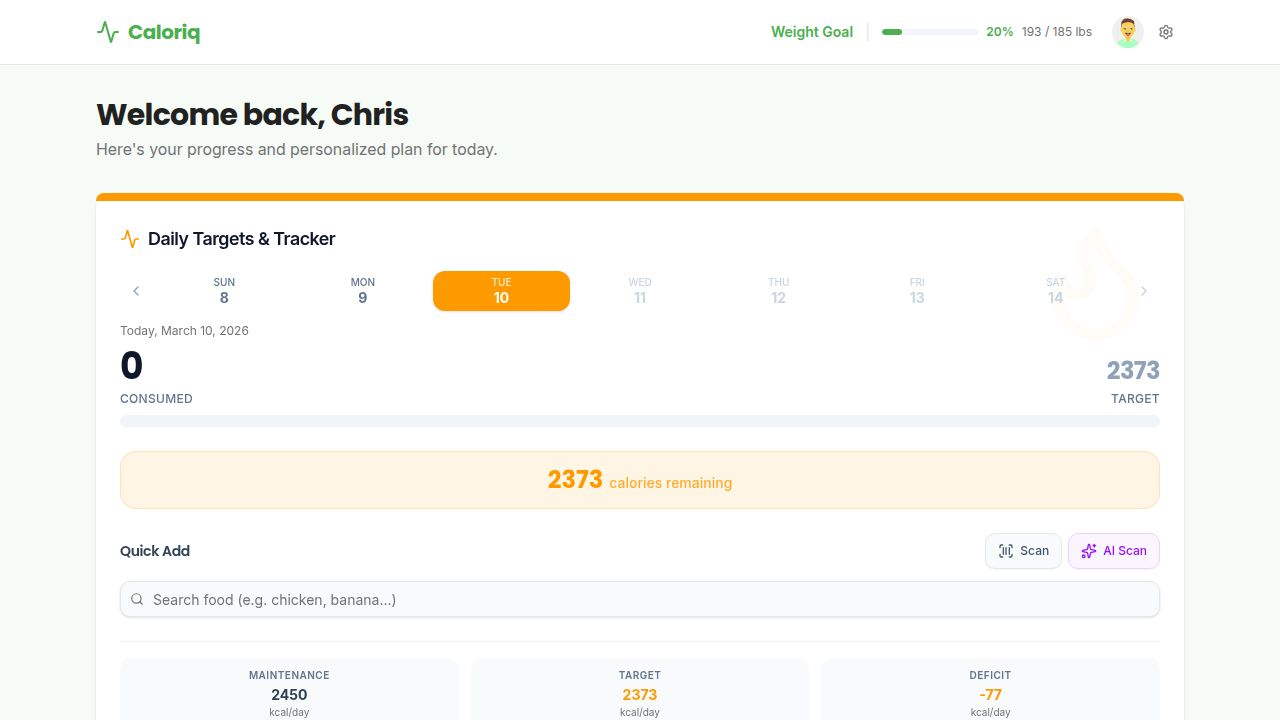
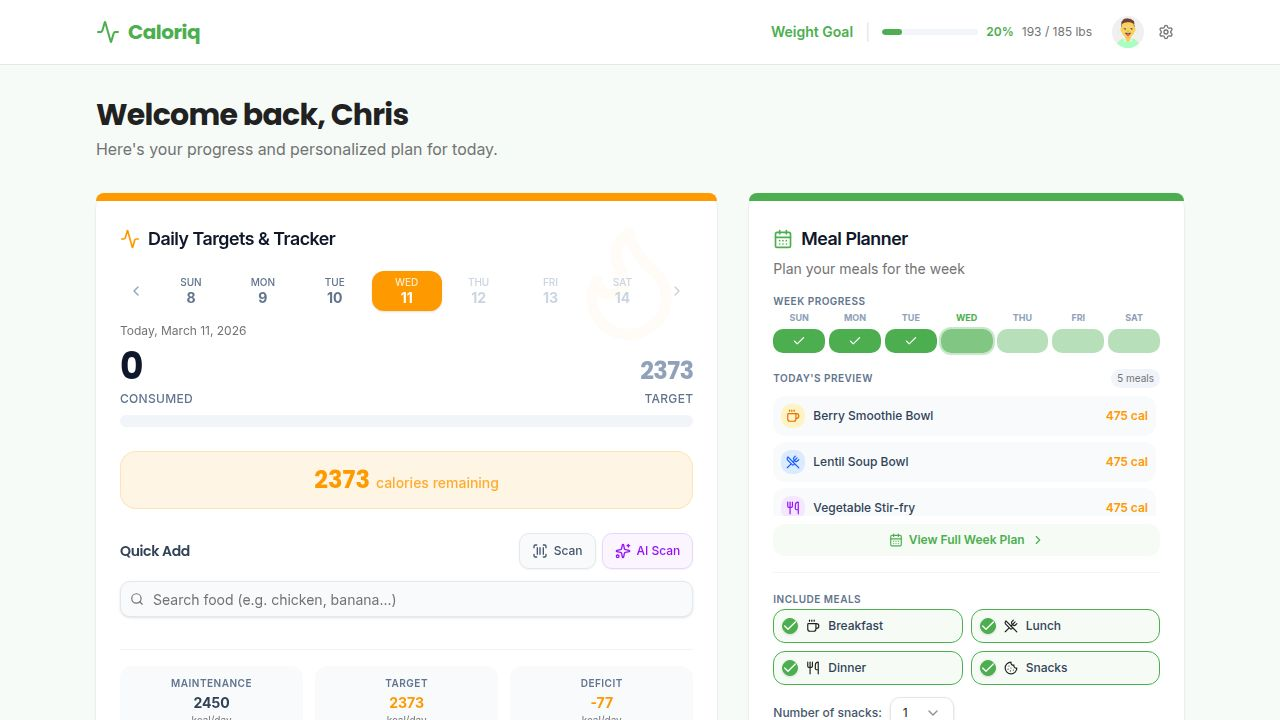
Add functionality to generate a grocery list from meal plans
Introduce a grocery list generation feature within the Meal Planner, aggregating ingredients from planned meals, allowing user selection, and enabling export functionality.

Replit-Commit-Author: Agent
Replit-Commit-Session-Id: d0c98cd4-3401-4b9a-9fcc-3167ef5b7d4c
Replit-Commit-Checkpoint-Type: full_checkpoint
Replit-Commit-Event-Id: e650ed43-8960-4a15-8b48-64aec25a0be4
Replit-Commit-Screenshot-Url: https://storage.googleapis.com/screenshot-production-us-central1/b5252e75-7d72-4a27-a063-837869a7ea78/d0c98cd4-3401-4b9a-9fcc-3167ef5b7d4c/vkuiCBN
Replit-Helium-Checkpoint-Created: true

diff --git a/client/src/pages/home.tsx b/client/src/pages/home.tsx
@@ -21,7 +21,10 @@ import {
   Check,
   Coffee,
   UtensilsCrossed,
-  Cookie
+  Cookie,
+  ShoppingCart,
+  Copy,
+  Share2
 } from "lucide-react";
 import { format, addDays, subDays, isToday, isSameDay, startOfWeek, endOfWeek } from "date-fns";
 import type { UserProfile, FoodEntry, SavedRecipe, PlannedMeal } from "@shared/schema";
@@ -145,6 +148,9 @@ export default function Home() {
   const [mpPreference, setMpPreference] = useState("balanced");
   const [mpIncludeMyRecipes, setMpIncludeMyRecipes] = useState(false);
   const [mpGenerating, setMpGenerating] = useState(false);
+  const [groceryListOpen, setGroceryListOpen] = useState(false);
+  const [groceryChecked, setGroceryChecked] = useState<Record<string, boolean>>({});
+  const [groceryCopied, setGroceryCopied] = useState(false);
 
   const currentWeekStart = startOfWeek(new Date(), { weekStartsOn: 0 });
   const currentWeekEnd = endOfWeek(new Date(), { weekStartsOn: 0 });
@@ -777,6 +783,82 @@ export default function Home() {
   const todayPlannedMeals = plannedMealsData.filter(m => m.date === todayStr);
   const dayNames = ["Sun", "Mon", "Tue", "Wed", "Thu", "Fri", "Sat"];
 
+  const aggregatedGroceryList = useCallback(() => {
+    const itemMap: Record<string, { item: string; amounts: string[]; totalCal: number }> = {};
+    plannedMealsData.forEach(meal => {
+      const ings = meal.ingredients as { item: string; amount: string; cal: number }[] | null;
+      if (!ings || !Array.isArray(ings)) return;
+      ings.forEach(ing => {
+        const key = ing.item.toLowerCase().trim();
+        if (!itemMap[key]) {
+          itemMap[key] = { item: ing.item, amounts: [], totalCal: 0 };
+        }
+        itemMap[key].amounts.push(ing.amount);
+        itemMap[key].totalCal += ing.cal || 0;
+      });
+    });
+    const categories: Record<string, string[]> = {
+      "Proteins": ["chicken", "turkey", "beef", "salmon", "shrimp", "cod", "egg", "tofu", "bacon", "sausage", "ham", "pork", "jerky", "collagen"],
+      "Dairy & Eggs": ["yogurt", "cheese", "cream cheese", "mozzarella", "feta", "parmesan", "cheddar", "butter", "milk", "cottage cheese", "sour cream"],
+      "Grains & Bread": ["oat", "rice", "quinoa", "pasta", "noodle", "tortilla", "bread", "granola", "farro", "flour", "crouton", "breadcrumb", "rice cake", "pita"],
+      "Fruits": ["banana", "apple", "berr", "lemon", "lime", "pineapple", "cranberr", "avocado"],
+      "Vegetables": ["spinach", "broccoli", "pepper", "tomato", "cucumber", "carrot", "celery", "onion", "garlic", "zucchini", "asparagus", "potato", "corn", "kale", "lettuce", "bean sprout", "mushroom", "eggplant", "sweet potato", "green bean", "edamame", "olive"],
+      "Nuts & Seeds": ["almond", "peanut", "walnut", "chia", "pumpkin seed", "sesame", "coconut", "macadamia", "trail mix"],
+      "Pantry & Sauces": ["oil", "honey", "maple", "soy sauce", "vinaigrette", "salsa", "hummus", "tahini", "curry", "marinara", "cocoa", "chocolate", "protein powder", "pad thai", "teriyaki", "mustard", "dressing", "glaze", "mct"],
+      "Spices & Herbs": ["cumin", "cinnamon", "rosemary", "thyme", "dill", "basil", "parsley", "chive", "ginger", "seasoning", "salt", "pepper", "flakes", "italian", "garlic powder", "stevia"],
+    };
+    const categorized: Record<string, typeof itemMap[string][]> = {};
+    const uncategorized: typeof itemMap[string][] = [];
+    Object.values(itemMap).forEach(entry => {
+      const key = entry.item.toLowerCase();
+      let placed = false;
+      for (const [cat, keywords] of Object.entries(categories)) {
+        if (keywords.some(kw => key.includes(kw))) {
+          if (!categorized[cat]) categorized[cat] = [];
+          categorized[cat].push(entry);
+          placed = true;
+          break;
+        }
+      }
+      if (!placed) uncategorized.push(entry);
+    });
+    if (uncategorized.length > 0) categorized["Other"] = uncategorized;
+    return categorized;
+  }, [plannedMealsData]);
+
+  const handleOpenGroceryList = () => {
+    const list = aggregatedGroceryList();
+    const initialChecked: Record<string, boolean> = {};
+    Object.values(list).flat().forEach(entry => {
+      initialChecked[entry.item.toLowerCase().trim()] = true;
+    });
+    setGroceryChecked(initialChecked);
+    setGroceryCopied(false);
+    setGroceryListOpen(true);
+  };
+
+  const handleExportGroceryList = () => {
+    const list = aggregatedGroceryList();
+    const lines: string[] = [`${profile?.name || "My"}'s Grocery List`, ""];
+    const categoryOrder = ["Proteins", "Dairy & Eggs", "Grains & Bread", "Fruits", "Vegetables", "Nuts & Seeds", "Pantry & Sauces", "Spices & Herbs", "Other"];
+    categoryOrder.forEach(cat => {
+      if (!list[cat]) return;
+      const selected = list[cat].filter(e => groceryChecked[e.item.toLowerCase().trim()]);
+      if (selected.length === 0) return;
+      lines.push(`── ${cat} ──`);
+      selected.forEach(entry => {
+        const qty = entry.amounts.length > 1 ? `${entry.amounts.length}x needed` : entry.amounts[0];
+        lines.push(`☐ ${entry.item} (${qty})`);
+      });
+      lines.push("");
+    });
+    const text = lines.join("\n").trim();
+    navigator.clipboard.writeText(text).then(() => {
+      setGroceryCopied(true);
+      setTimeout(() => setGroceryCopied(false), 2000);
+    });
+  };
+
   const handleGenerateRecipe = () => {
     setIsGenerating(true);
     setGeneratedRecipe(null);
@@ -1377,9 +1459,20 @@ export default function Home() {
                 </Button>
 
                 {plannedMealsData.length > 0 && (
-                  <p className="text-[10px] text-center text-muted-foreground">
-                    Generated meals appear in the Recipes section below
-                  </p>
+                  <>
+                    <Button
+                      variant="outline"
+                      className="w-full h-9 text-xs font-semibold border-primary/30 text-primary hover:bg-primary/5 dark:hover:bg-primary/10"
+                      onClick={handleOpenGroceryList}
+                      data-testid="button-grocery-list"
+                    >
+                      <ShoppingCart className="h-3.5 w-3.5 mr-1.5" />
+                      Grocery List
+                    </Button>
+                    <p className="text-[10px] text-center text-muted-foreground">
+                      Generated meals appear in the Recipes section below
+                    </p>
+                  </>
                 )}
               </CardContent>
             </Card>
@@ -1949,6 +2042,113 @@ export default function Home() {
             </div>
           </DialogContent>
         )}
+      </Dialog>
+
+      <Dialog open={groceryListOpen} onOpenChange={setGroceryListOpen}>
+        <DialogContent className="max-w-lg p-0 overflow-hidden max-h-[90vh] flex flex-col">
+          <div className="bg-gradient-to-r from-primary/10 via-secondary/5 to-accent/10 p-5 border-b border-slate-100 dark:border-slate-800">
+            <DialogHeader>
+              <DialogTitle className="font-display text-lg flex items-center gap-2">
+                <ShoppingCart className="h-5 w-5 text-primary" />
+                Grocery List
+              </DialogTitle>
+              <DialogDescription>{profile?.name || "Your"}'s Meal Plan · {plannedMealsData.length} meals this week</DialogDescription>
+            </DialogHeader>
+          </div>
+          <div className="flex-1 overflow-y-auto p-5 space-y-4">
+            {(() => {
+              const list = aggregatedGroceryList();
+              const categoryOrder = ["Proteins", "Dairy & Eggs", "Grains & Bread", "Fruits", "Vegetables", "Nuts & Seeds", "Pantry & Sauces", "Spices & Herbs", "Other"];
+              const totalItems = Object.values(list).flat().length;
+              const selectedCount = Object.values(groceryChecked).filter(Boolean).length;
+              return (
+                <>
+                  <div className="flex items-center justify-between">
+                    <span className="text-xs text-muted-foreground">{selectedCount} of {totalItems} items selected</span>
+                    <div className="flex gap-2">
+                      <button
+                        onClick={() => {
+                          const all: Record<string, boolean> = {};
+                          Object.values(list).flat().forEach(e => { all[e.item.toLowerCase().trim()] = true; });
+                          setGroceryChecked(all);
+                        }}
+                        className="text-[10px] font-semibold text-primary hover:underline"
+                        data-testid="grocery-select-all"
+                      >
+                        Select All
+                      </button>
+                      <span className="text-slate-300 dark:text-slate-600">|</span>
+                      <button
+                        onClick={() => setGroceryChecked({})}
+                        className="text-[10px] font-semibold text-muted-foreground hover:underline"
+                        data-testid="grocery-deselect-all"
+                      >
+                        Deselect All
+                      </button>
+                    </div>
+                  </div>
+                  {categoryOrder.map(cat => {
+                    if (!list[cat] || list[cat].length === 0) return null;
+                    return (
+                      <div key={cat} className="space-y-1.5">
+                        <h4 className="text-xs font-bold uppercase tracking-wider text-slate-500 dark:text-slate-400 flex items-center gap-2">
+                          <span className="w-2 h-2 rounded-full bg-primary/40"></span>
+                          {cat}
+                          <span className="text-[10px] font-normal text-muted-foreground ml-auto">{list[cat].length} items</span>
+                        </h4>
+                        <div className="space-y-0.5">
+                          {list[cat].map(entry => {
+                            const key = entry.item.toLowerCase().trim();
+                            const isChecked = !!groceryChecked[key];
+                            return (
+                              <label
+                                key={key}
+                                className={`flex items-center gap-2.5 p-2 rounded-lg cursor-pointer transition-all ${
+                                  isChecked
+                                    ? 'bg-primary/5 dark:bg-primary/10'
+                                    : 'bg-slate-50 dark:bg-slate-800/50 opacity-60'
+                                }`}
+                                data-testid={`grocery-item-${key}`}
+                              >
+                                <Checkbox
+                                  checked={isChecked}
+                                  onCheckedChange={(v) => setGroceryChecked(prev => ({ ...prev, [key]: !!v }))}
+                                />
+                                <div className="flex-1 min-w-0">
+                                  <span className={`text-sm font-medium ${isChecked ? 'text-slate-700 dark:text-slate-300' : 'text-slate-400 dark:text-slate-500 line-through'}`}>
+                                    {entry.item}
+                                  </span>
+                                </div>
+                                <span className="text-xs text-muted-foreground whitespace-nowrap">
+                                  {entry.amounts.length > 3
+                                    ? `${entry.amounts.slice(0, 2).join(", ")} +${entry.amounts.length - 2} more`
+                                    : entry.amounts.join(", ")}
+                                </span>
+                              </label>
+                            );
+                          })}
+                        </div>
+                      </div>
+                    );
+                  })}
+                </>
+              );
+            })()}
+          </div>
+          <div className="p-4 border-t border-slate-100 dark:border-slate-800 bg-white dark:bg-slate-900 flex gap-3">
+            <Button
+              className="flex-1 bg-primary hover:bg-primary/90 text-white"
+              onClick={handleExportGroceryList}
+              data-testid="button-export-grocery"
+            >
+              {groceryCopied ? (
+                <><Check className="h-4 w-4 mr-1.5" /> Copied!</>
+              ) : (
+                <><Copy className="h-4 w-4 mr-1.5" /> Copy Selected to Clipboard</>
+              )}
+            </Button>
+          </div>
+        </DialogContent>
       </Dialog>
 
       <OnboardingDialog
